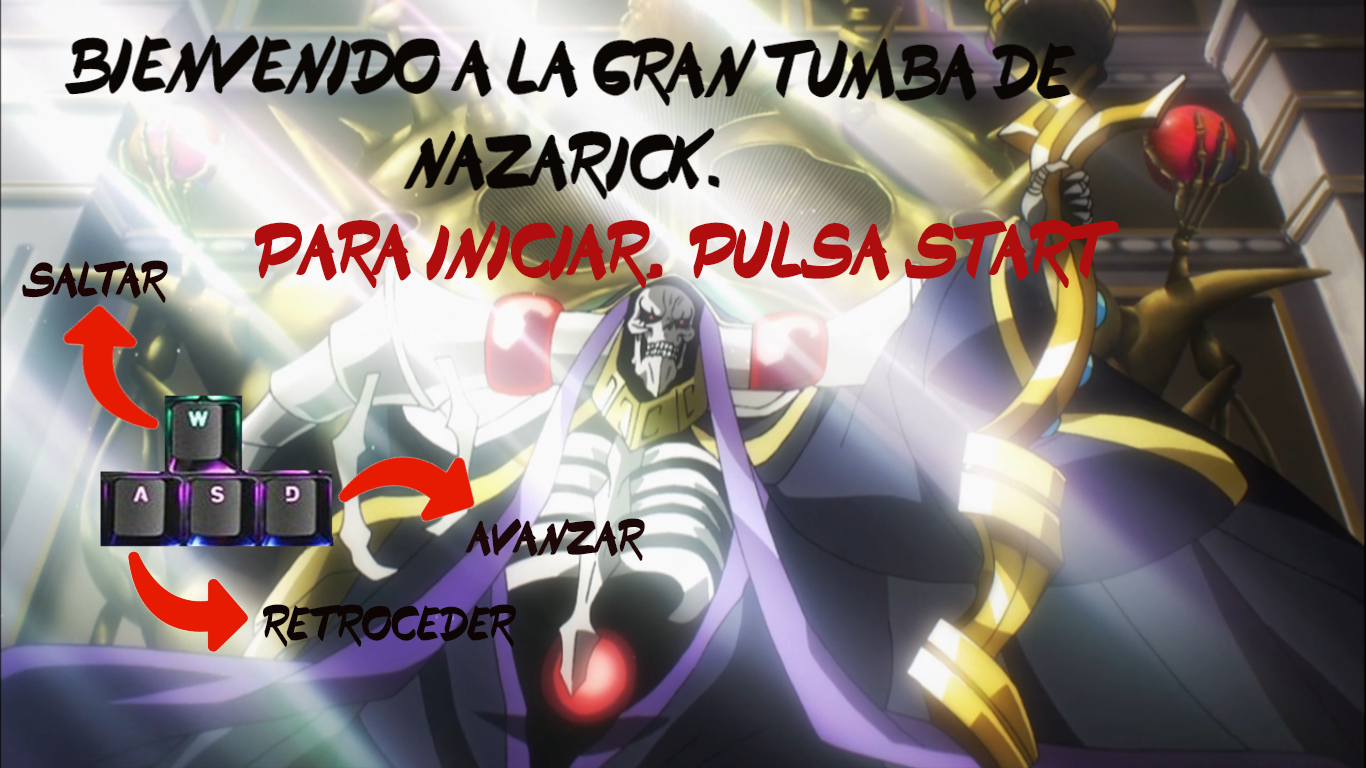
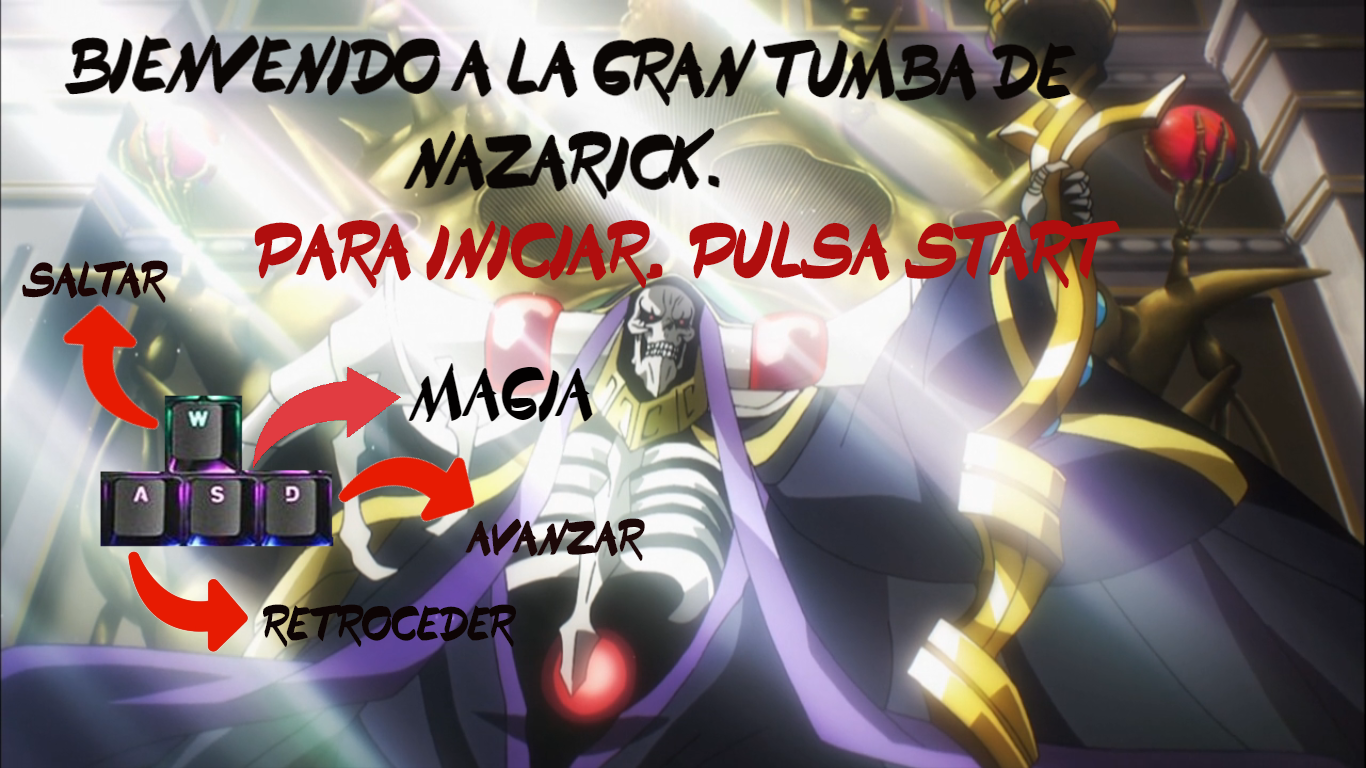
pequeñas configuraciones

Changed region(s): [[0.1845, 0.4688, 0.4305, 0.5938]]

diff --git a/juego2020/mainwindow.cpp b/juego2020/mainwindow.cpp
@@ -58,6 +58,7 @@ void MainWindow::actualizar()//actualiza la posicion dependiendo del timer para 
 
 
     }
+
     this->ui->lcdNumber->display(vida_);
     if(vida_ < 1 && ainz1.size()==1){
         n = 0;
@@ -160,7 +161,7 @@ void MainWindow::niveles(){
         scene->setBackgroundBrush(QPixmap(":/imagen/Overlord_III_EP09_022 (1).png"));
         ui->graphicsView->resize(scene->width(),scene->height());
         this->resize(ui->graphicsView->width()+100, ui->graphicsView->height()+100);
-        anillo1= new Anillo(200,140,50,50);scene->addItem(anillo1);anillos.push_back(anillo1);
+
         uno= new objetivos(910,140,50,50);scene->addItem(uno);objetivoss.push_back(uno);
         dos= new objetivos(910,305,50,50);scene->addItem(dos);objetivoss.push_back(dos);
         tres= new objetivos(910,480,50,50);scene->addItem(tres);objetivoss.push_back(tres);
@@ -169,6 +170,7 @@ void MainWindow::niveles(){
 
         if (n==2){
             contadorparaenemigos();
+
         }
     }
     if(n == 3){
@@ -283,6 +285,7 @@ void MainWindow::bordercollision(actualizaciones *b)//son los choques con los bo
                 b->set_vel(0,0, 1150, 620);
                 niveles();
             }
+
         }
         if(b->get_posY()<((b->get_Radio()))){//choque con el borde superior.
             b->set_vel(b->get_velX(),-1*b->get_e()*b->get_velY(), (b->get_posX()), b->get_Radio());
@@ -300,6 +303,13 @@ void MainWindow::bordercollision(actualizaciones *b)//son los choques con los bo
         if (b->get_posY() >= 390 && b->get_posY() < 400 && b->get_posX() >= 360 && b->get_posX() < 680 ){
             b->set_vel(b->get_velX(), -1*b->get_e()*b->get_velY(),b->get_posX(), 335+b->get_Radio());
         }
+        if (n==2){
+            if (puntaje_==4){
+                anillo1= new Anillo(200,140,50,50);scene->addItem(anillo1);anillos.push_back(anillo1);
+                puntaje_+=1;
+            }
+        }
+
 
     }
     if (n==3){
@@ -458,7 +468,7 @@ void MainWindow::keyPressEvent(QKeyEvent *event)
                     b->set_vel(b->get_velX(),50,b->get_posX(), b->get_posY());  //se conecta con la fución set_vel ubicada en actualizaciones y te pide como parametros velocidad en x y en y, y la posición en x y en y
                 }
             }
-            if (event->key() == Qt::Key_Z){
+            if (event->key() == Qt::Key_S){
 
                 magia * mago = new magia();
                 mago->setPos(x()+ainz1[0]->getPlayer()->get_Radio()+ainz1[0]->getPlayer()->get_posX(),y()+v_limit-ainz1[0]->getPlayer()->get_posY()+ainz1[0]->getPlayer()->get_Radio()-90);
@@ -479,7 +489,7 @@ void MainWindow::keyPressEvent(QKeyEvent *event)
                     b->set_vel(b->get_velX(),50,b->get_posX(), b->get_posY());  //se conecta con la fución set_vel ubicada en actualizaciones y te pide como parametros velocidad en x y en y, y la posición en x y en y
                 }
             }
-            if (event->key() == Qt::Key_Z){
+            if (event->key() == Qt::Key_S){
 
                 magia * mago = new magia();
                 mago->setPos(x()+ainz1[0]->getPlayer()->get_Radio()+ainz1[0]->getPlayer()->get_posX(),y()+v_limit-ainz1[0]->getPlayer()->get_posY()+ainz1[0]->getPlayer()->get_Radio()-90);
@@ -489,7 +499,7 @@ void MainWindow::keyPressEvent(QKeyEvent *event)
             recoger();
             aumentar();
             aunmnmentar();
-
+            decrementar();
 
         }
         if(n==3){
@@ -504,7 +514,7 @@ void MainWindow::keyPressEvent(QKeyEvent *event)
                     b->set_vel(b->get_velX(),50,b->get_posX(), b->get_posY());  //se conecta con la fución set_vel ubicada en actualizaciones y te pide como parametros velocidad en x y en y, y la posición en x y en y
                 }
             }
-            if (event->key() == Qt::Key_Z){
+            if (event->key() == Qt::Key_S){
 
                 magia * mago = new magia();
                 mago->setPos(x()+ainz1[0]->getPlayer()->get_Radio()+ainz1[0]->getPlayer()->get_posX(),y()+v_limit-ainz1[0]->getPlayer()->get_posY()+ainz1[0]->getPlayer()->get_Radio()-90);
@@ -527,7 +537,7 @@ void MainWindow::keyPressEvent(QKeyEvent *event)
                     b->set_vel(b->get_velX(),50,b->get_posX(), b->get_posY());  //se conecta con la fución set_vel ubicada en actualizaciones y te pide como parametros velocidad en x y en y, y la posición en x y en y
                 }
             }
-            if (event->key() == Qt::Key_Z){
+            if (event->key() == Qt::Key_S){
 
                 magia * mago = new magia();
                 mago->setPos(x()+ainz1[0]->getPlayer()->get_Radio()+ainz1[0]->getPlayer()->get_posX(),y()+v_limit-ainz1[0]->getPlayer()->get_posY()+ainz1[0]->getPlayer()->get_Radio()-90);
@@ -549,6 +559,12 @@ void MainWindow::keyPressEvent(QKeyEvent *event)
                     b->set_vel(b->get_velX(),50,b->get_posX(), b->get_posY());
                 }
             }
+            if (event->key() == Qt::Key_S){
+
+                magia * mago = new magia();
+                mago->setPos(x()+ainz1[0]->getPlayer()->get_Radio()+ainz1[0]->getPlayer()->get_posX(),y()+v_limit-ainz1[0]->getPlayer()->get_posY()+ainz1[0]->getPlayer()->get_Radio()-90);
+                scene->addItem(mago);
+            }
         }
     }
 
@@ -566,7 +582,7 @@ void MainWindow::keyPressEvent(QKeyEvent *event)
 
 
                 }
-                if (event->key() == Qt::Key_Z){
+                if (event->key() == Qt::Key_S){
 
                     magia * mago = new magia();
                     mago->setPos(x()+ainz1[0]->getPlayer()->get_Radio()+ainz1[0]->getPlayer()->get_posX(),y()+v_limit-ainz1[0]->getPlayer()->get_posY()+ainz1[0]->getPlayer()->get_Radio()-50);
@@ -658,6 +674,28 @@ void MainWindow::aunmnmentar()
     int p=stoi(datos);
      puntaje_+=p;
      magia().getcolision(0);
+}
+
+void MainWindow::decrementar()
+{
+    /*string datos;
+    ifstream registro;
+    registro.open("../juego2020/Nuevo documento de texto (3).txt", ios::in);
+    if (registro.fail())
+        cerr << "Error" << endl;
+    //while (registro.good()){
+        char tem=registro.get();
+        //if (registro.good()){
+                    datos+=tem;
+          //      }
+    //}
+    //registro.close();
+    int v=stoi(datos);
+     vida_-=v;
+     Enemy().getenemy(0);*/
+    if (Enemy().getenemy()==true){
+        //vida_-=1;
+    }
 }
 
 void MainWindow::on_pushButton_3_clicked()

diff --git a/juego2020/enemy.cpp b/juego2020/enemy.cpp
@@ -16,6 +16,17 @@ Enemy::Enemy()
 
 }
 
+bool Enemy::getenemy()
+{
+    if (vida==1){
+        return true;
+    }
+    if (vida==0){
+        return false;
+    }
+
+}
+
 void Enemy::move()
 {
 
@@ -26,9 +37,13 @@ void Enemy::move()
 
     }
     if (pos().x() < 70){
+        vida=1;
         scene()->removeItem(this);
         delete this;
 
+    }
+    else{
+        vida=0;
     }
 
 

diff --git a/juego2020/mainwindow.h b/juego2020/mainwindow.h
@@ -23,6 +23,7 @@ QT_END_NAMESPACE
 
 class MainWindow : public QMainWindow
 {
+    int i;
     Q_OBJECT
 
 public:
@@ -42,6 +43,7 @@ public:
     QList<salud*> curas;
 
     void aunmnmentar();
+    void decrementar();
 
 
 private slots:

diff --git a/juego2020/magia.cpp b/juego2020/magia.cpp
@@ -40,7 +40,7 @@ void magia::move()
 
 
    // return false;
-    setPos(x()+10,y());
+    setPos(x()+20,y());
     if (pos().x() > 1050){
         scene()->removeItem(this);
         delete this;

diff --git a/juego2020/enemy.h b/juego2020/enemy.h
@@ -10,9 +10,11 @@
 
 class Enemy:public QObject, public QGraphicsPixmapItem
 {
+    int vida;
     Q_OBJECT
 public:
     Enemy();
+    bool getenemy();
 
 public slots:
     void move();
